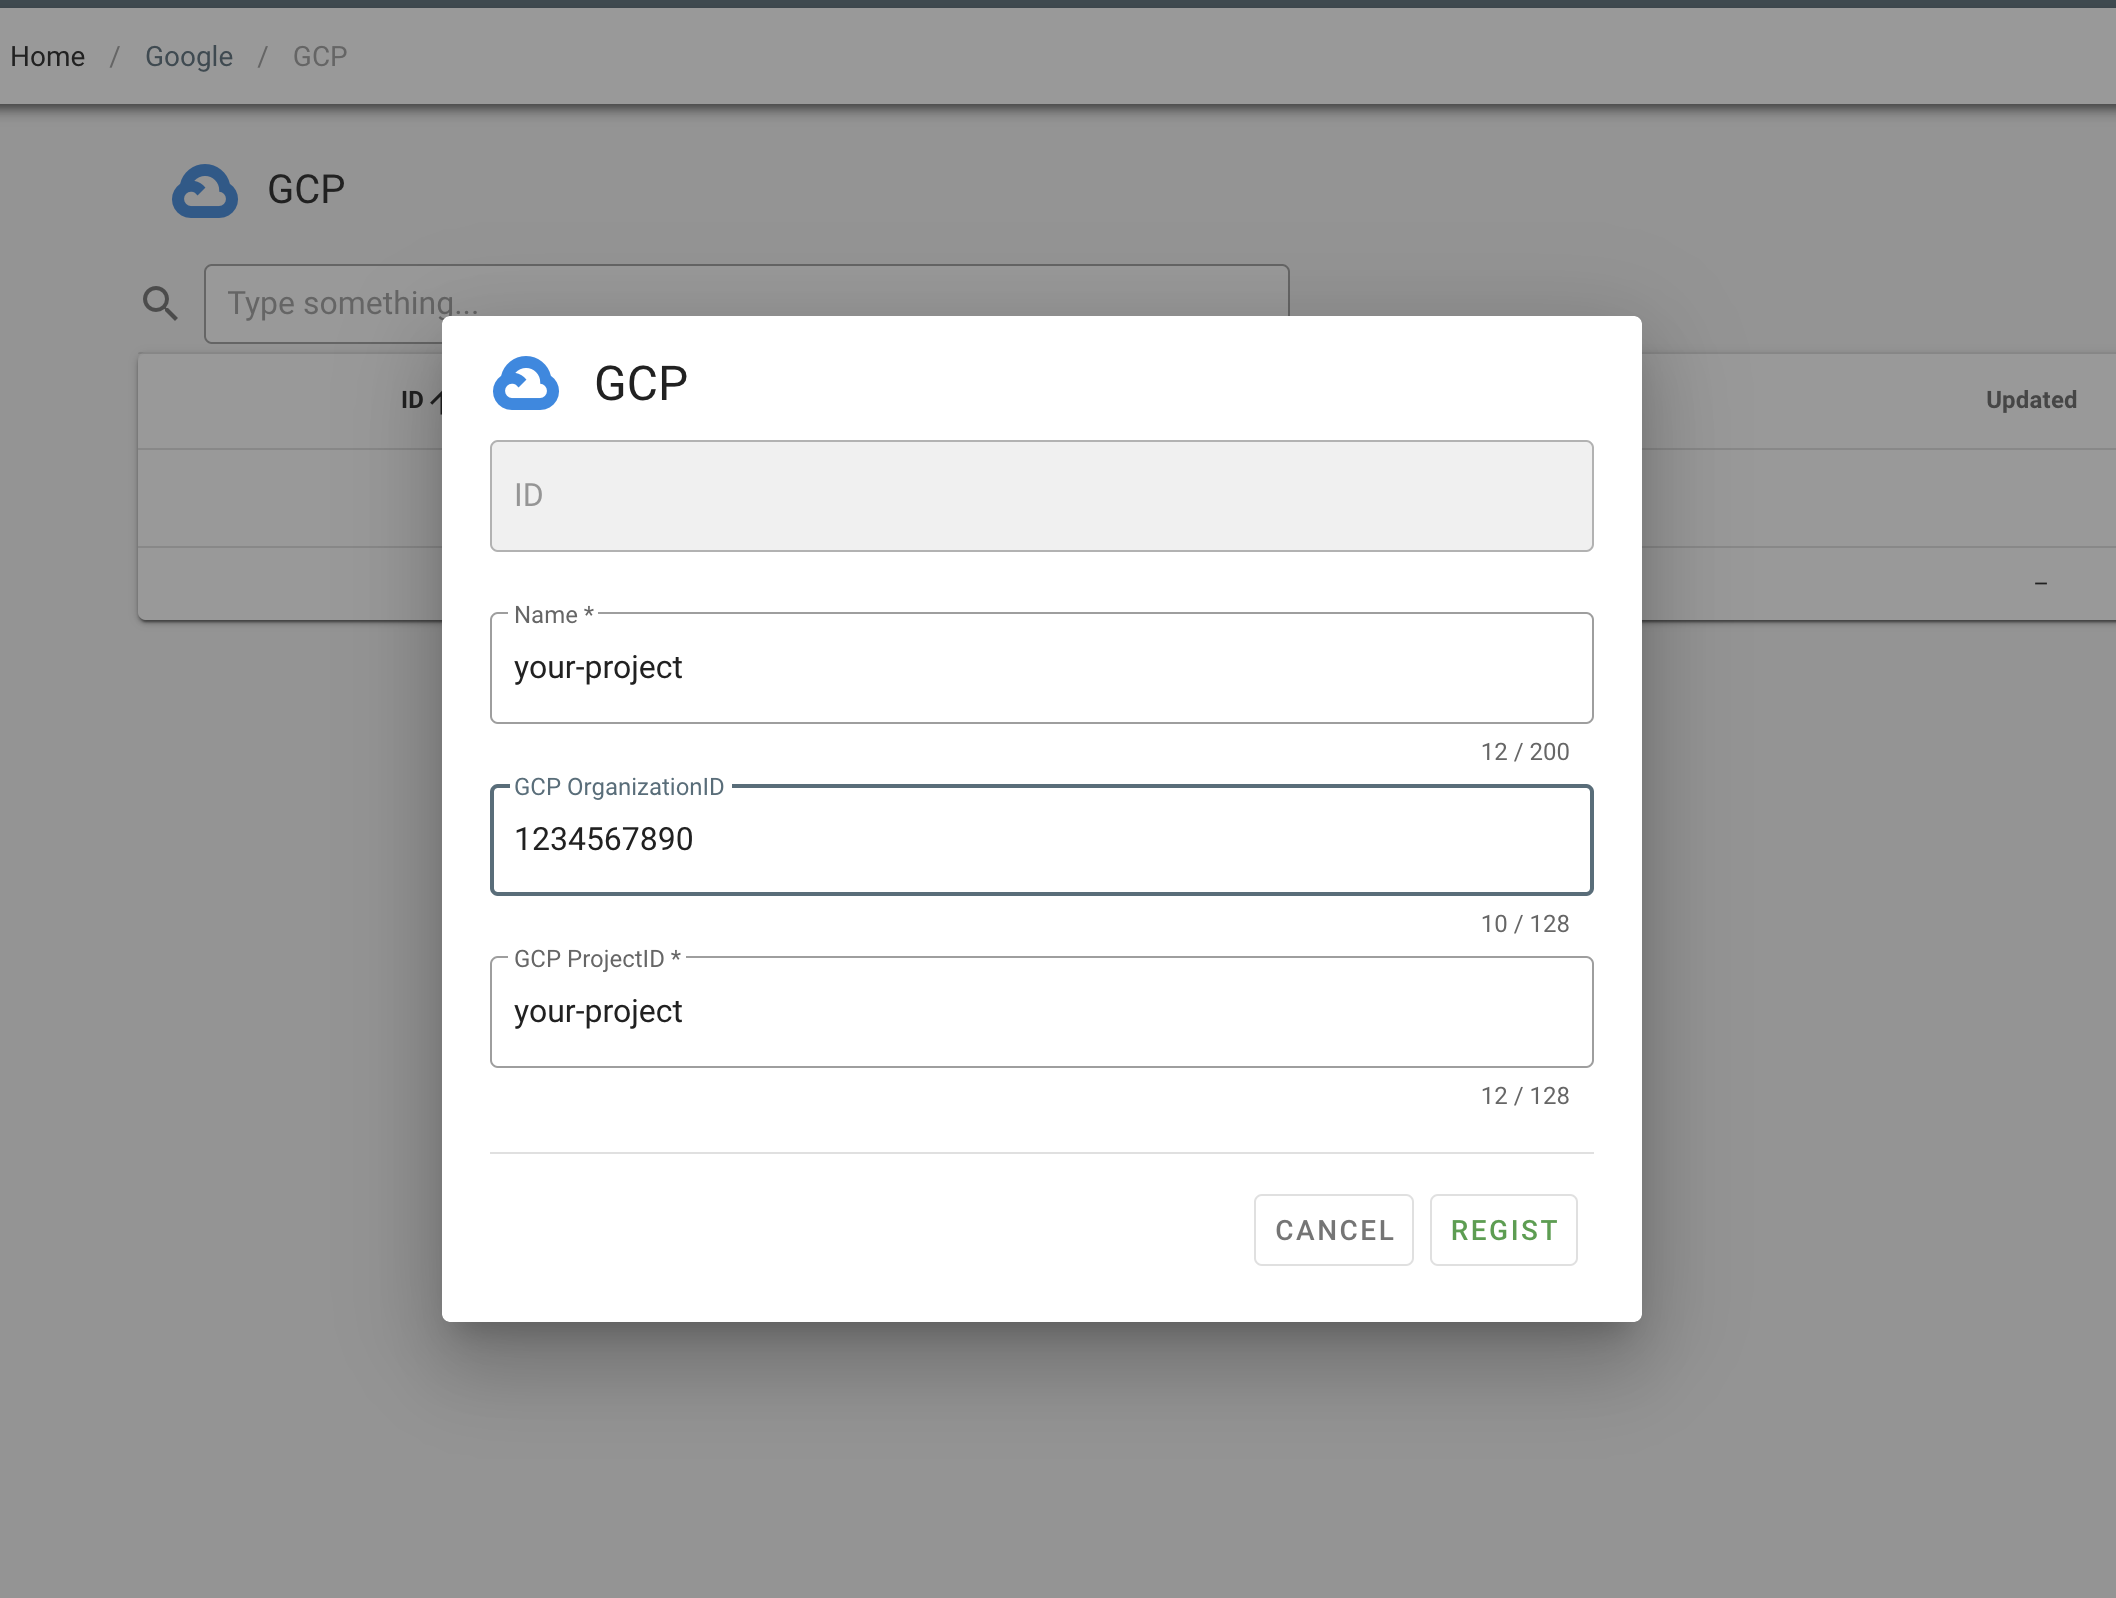
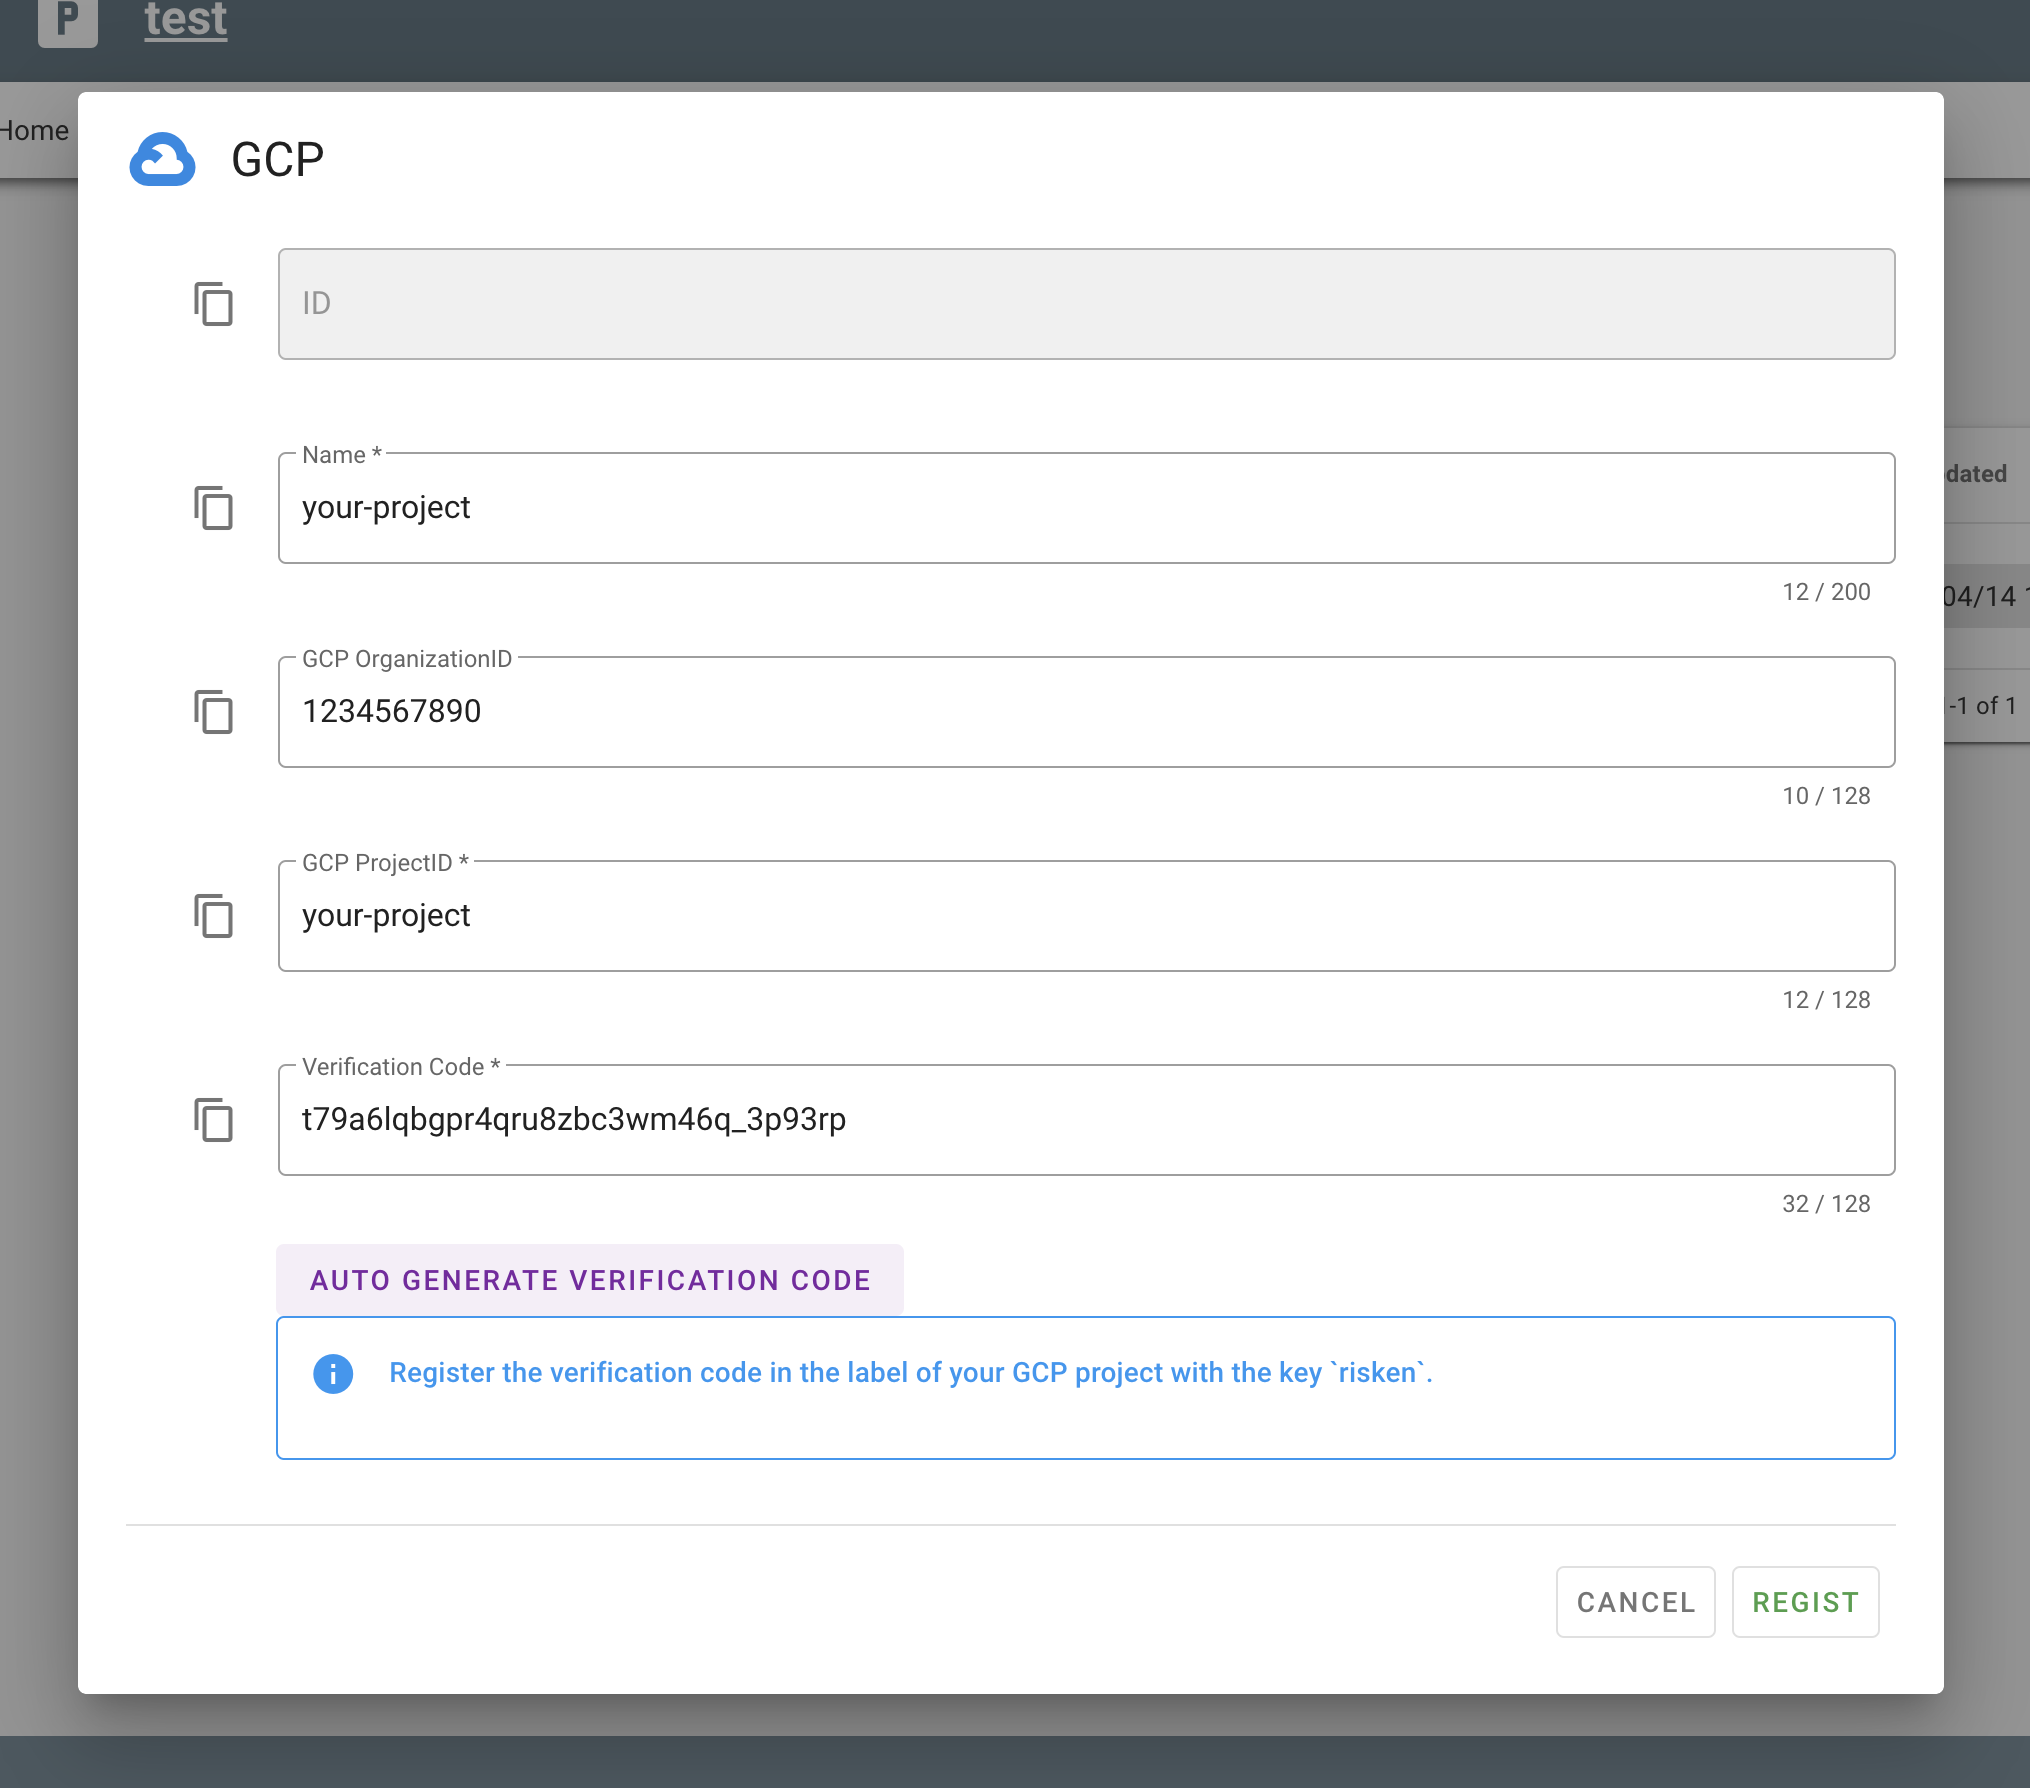
fix gcp doc

diff --git a/docs/google/overview_gcp.md b/docs/google/overview_gcp.md
@@ -1,0 +1,41 @@
+# GCP
+
+あなたのGCPプロジェクトの登録方法について説明します
+
+## GCPプロジェクトを追加する
+
+1. メニューより`Google > GCP`画面に遷移します
+2. 画面右側の`NEW`をクリックします
+3. 新規追加ダイアログで以下の項目を入力し`REGIST`をクリックします
+    - **Name ＊**: GCP名（任意のもの）
+    - **GCP Organization ID**: GCP 組織IDです（SecurityCommandCenterのスキャン時に必要になります）
+        - 組織IDの確認方法は [Googleのドキュメント :octicons-link-external-24:](https://cloud.google.com/resource-manager/docs/creating-managing-organization){ target="_blank" } を参照してください
+    - **GCP Project ID ＊**: GCP プロジェクトID
+        - プロジェクトIDの確認方法は [Googleのドキュメント :octicons-link-external-24:](https://cloud.google.com/resource-manager/docs/creating-managing-projects?hl=ja#identifying_projects){ target="_blank" } を参照してください
+    - **Verification Code ＊**: 検証コード
+        - 新規作成の場合は`自動生成ボタン`でランダムな値を設定してください
+    - ![GCP登録](/img/google/gcp_regist.png){style="width:350px"}
+
+4. 検証コードは後ほどあなたのGCPプロジェクトに登録する必要があります
+    - 必要に応じて :material-content-copy: （コピーボタン）をご利用ください
+
+    ???+ info "GCPの所有者確認フロー"
+        - ここで設定されたコードが、あなたのGCP内にも登録されているかを検証することで、あなたがGCPプロジェクトの所有者であることを確認します
+        - RISKENは複数のGCPを監視しているため、この検証フローを挟むことによって他者があなたのGCPを登録できないようにするという意図があります
+
+
+## 検証コードを登録する
+
+1. [GCPマネージメントコンソール :octicons-link-external-24:](https://console.cloud.google.com/)を開きます
+2. RISKENに登録したGCPプロジェクトに切り替えます
+3. [IAMメニューのラベル :octicons-link-external-24:](https://console.cloud.google.com/iam-admin/labels)を開きます
+4. 新たに以下のラベルを追加してください
+    - キー: `risken`
+    - 値: `{RISKENで設定した検証コード}`
+
+??? warning "ラベル設定にはプロジェクト権限が必要です"
+    - ラベル設定にはプロジェクトの[ResourceManager API :octicons-link-external-24:](https://cloud.google.com/resource-manager/docs/creating-managing-labels)の権限が必要です。
+        - `resourcemanager.projects.get`
+        - `resourcemanager.projects.update`
+    - 詳細はGCPのクラウド管理者にお問い合わせください
+

diff --git a/docs/google/overview_datasource.md b/docs/google/overview_datasource.md
@@ -1,30 +1,8 @@
 # データソース
 
-??? warning "現在、GCPの新規プロジェクト登録は管理者のみ操作可能となっています"
-    設定が必要な方は以下の情報を添えて[Contact us](/contact/contact/)までご連絡ください
-
-    1. RISKENのプロジェクト
-    2. GCPのプロジェクトID
-    3. GCPの組織IDの
-        - 組織IDの確認方法は [Googleのドキュメント :octicons-link-external-24:](https://cloud.google.com/resource-manager/docs/creating-managing-organization){ target="_blank" } を参照してください
-    4. 申請者の方がそのGCPのプロジェクト（または、組織）の所有者だと分かる情報
-        - セキュリティ上の理由により、プロジェクトの所有確認をさせて頂く必要があります
-        - [マネージメントコンソールのIAM画面 :octicons-link-external-24:](https://console.cloud.google.com/iam-admin/iam){ target="_blank" } のキャプチャなどをご提示ください
-
-
-
-1. メニューより`Google > GCP`をクリックしGCPの設定画面に遷移します
-2. 画面右側の`NEW`をクリックします
-3. 新規追加ダイアログで以下の項目を入力し`REGIST`をクリックします
-    - **Name ＊**: GCP名（任意のもの）
-    - **GCP Organization ID**: GCP 組織IDです（SecurityCommandCenterのスキャン時に必要になります）
-        - 組織IDの確認方法は [Googleのドキュメント :octicons-link-external-24:](https://cloud.google.com/resource-manager/docs/creating-managing-organization){ target="_blank" } を参照してください
-    - **GCP Project ID ＊**: GCP プロジェクト
-        - プロジェクトの確認方法は [Googleのドキュメント :octicons-link-external-24:](https://cloud.google.com/resource-manager/docs/creating-managing-projects?hl=ja#identifying_projects){ target="_blank" } を参照してください
-    - ![GCP登録](/img/google/gcp_regist.png){style="width:350px"}
-4. GCPプロジェクト登録後、一覧クリックしGoogleのGCP DataSource画面を開きます
-5. 各種スキャナーの一覧右側のアクションより`SETUP ALL`をクリックします
+1. メニューより`Google > GCP DataSource`画面に遷移します
+2. 画面上部のプルダウンより、対象GCPプロジェクトを選択してください
+3. 一覧右側より`SETUP ALL`をクリックします
     - ![SETUP ALL](/img/google/gcp_setup_all.png){style="width:150px"}
-6. DataSourceダイアログで`ATTACH`をクリックします
+4. ダイアログで`ATTACH`をクリックします
     - ![ATTACH ALL](/img/google/gcp_attach_all.png){style="width:300px"}
-
